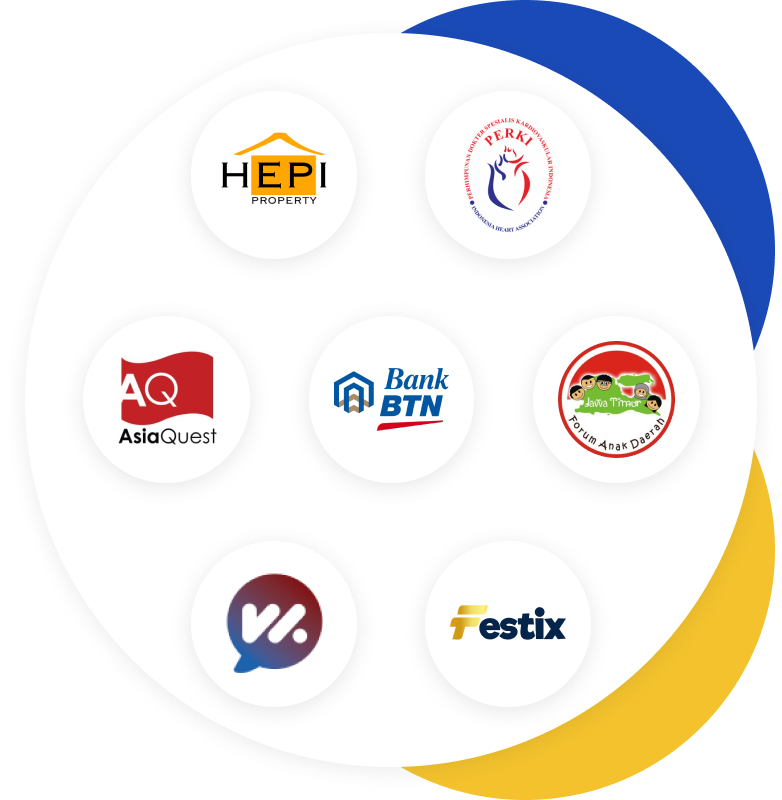
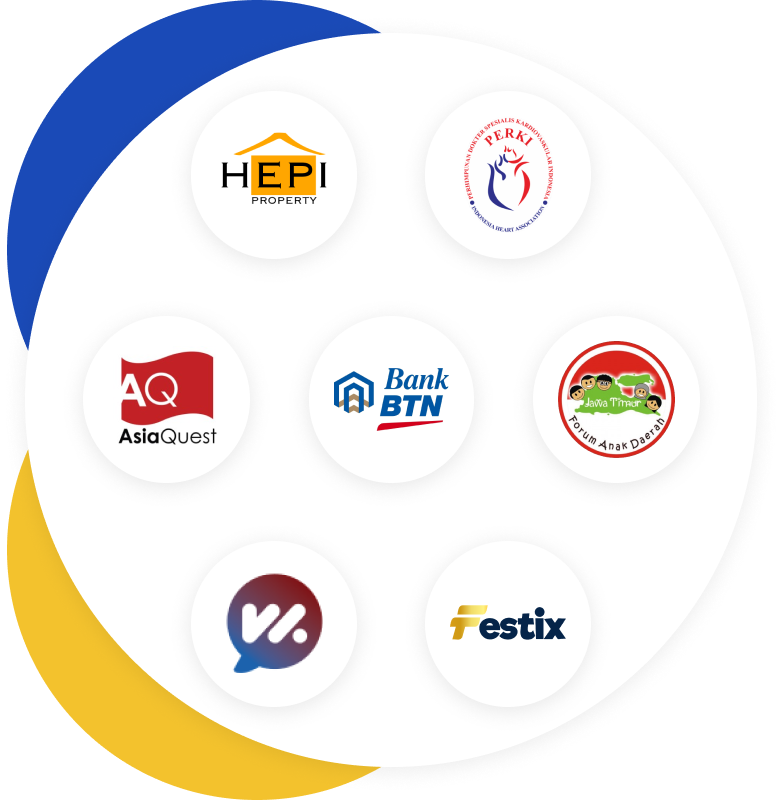
style: reorder clients element

diff --git a/index.html b/index.html
@@ -28,7 +28,7 @@
     <nav class="bg-white fixed w-full z-20 top-0 start-0 shadow-sm">
       <div
         id="navbar"
-        class="wrapper max-w-screen-xl flex flex-wrap items-center justify-between mx-auto py-4"
+        class="wrapper flex flex-wrap items-center justify-between mx-auto py-4"
       >
         <a href="#" class="flex items-center space-x-3 rtl:space-x-reverse">
           <h3 class="text-xl font-semibold">Sarah Firyal</h3>
@@ -118,7 +118,12 @@
           <button type="button" class="btn-filled-accent">Hire Me</button>
         </div>
         <div class="flex-1 flex flex-col justify-center">
-          <img src="./assets/images/img_hero.png" alt="hero" class="w-full" />
+          <img
+            src="./assets/images/img_hero.png"
+            alt="hero"
+            class="w-full object-contain"
+            style="max-height: 36rem"
+          />
         </div>
       </section>
 
@@ -207,8 +212,15 @@
       </section>
 
       <!-- Clients Section -->
-      <section id="clients" class="flex gap-6 mt-36">
-        <div class="flex-1 flex flex flex-col justify-center">
+      <section id="clients" class="flex gap-12 mt-40">
+        <div class="flex flex-col justify-center items-start w-2/5">
+          <img
+            src="./assets/images/img_clients.png"
+            alt="hero"
+            class="w-11/12"
+          />
+        </div>
+        <div class="flex-1 flex flex-col justify-center">
           <h1 class="text-4xl font-semibold leading-tight">
             Worked with These
             <span class="text-primary-gradient">Brands and Clients</span>
@@ -220,13 +232,10 @@
           </p>
           <button type="button" class="btn-filled-accent">See Details</button>
         </div>
-        <div class="flex-1 flex flex-col justify-center items-end">
-          <img src="./assets/images/img_clients.png" alt="hero" class="w-3/4" />
-        </div>
       </section>
 
       <!-- Projects Section -->
-      <section id="projects" class="mt-32">
+      <section id="projects" class="mt-40">
         <h1 class="text-4xl text-center font-semibold leading-tight">
           Recent <span class="text-primary-gradient">Projects</span>
         </h1>
@@ -241,7 +250,7 @@
       </section>
     </div>
 
-    <div class="h-64 w-full relative mt-16">
+    <div class="h-64 w-full relative mt-16 max-width">
       <div class="flex flex-col justify-end h-full">
         <div class="bg-accent700 h-1/2 w-full"></div>
       </div>
@@ -275,7 +284,7 @@
     </div>
 
     <!-- Footer Section -->
-    <footer class="bg-accent700 pt-12 pb-6 text-white">
+    <footer class="max-width bg-accent700 pt-12 pb-6 text-white">
       <div class="wrapper py-8 flex justify-between">
         <h3 class="text-lg font-semibold">Sarah Firyal</h3>
         <div class="flex font-medium gap-8">

diff --git a/assets/styles/style.css b/assets/styles/style.css
@@ -28,6 +28,12 @@ body {
   max-width: 1920px !important;
 }
 
+.max-width {
+  position: relative !important;
+  margin: 0 auto !important;
+  max-width: 1920px !important;
+}
+
 .btn-filled-accent {
   width: fit-content !important;
   font-size: 0.9rem !important;
@@ -85,6 +91,10 @@ body {
 
 .rounded-sm {
   border-radius: 24px;
+}
+
+#hero {
+  max-height: 52rem;
 }
 
 .project-background {
